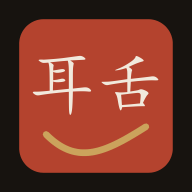
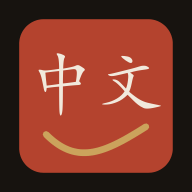
HSK6: 82 oraciones de gramatica; titulo sin 耳舌; iconos con 中文

Changed region(s): [[0.1562, 0.25, 0.4688, 0.5938], [0.5312, 0.2812, 0.8438, 0.5938]]

diff --git a/index.html b/index.html
@@ -14,8 +14,8 @@
   <meta name="mobile-web-app-capable" content="yes">
   <meta name="apple-mobile-web-app-capable" content="yes">
   <meta name="apple-mobile-web-app-status-bar-style" content="black-translucent">
-  <meta name="apple-mobile-web-app-title" content="耳舌 Mandarín">
-  <title>耳朵与舌头 · Entrenador de Mandarín</title>
+  <meta name="apple-mobile-web-app-title" content="Entrenador Mandarín">
+  <title>Entrenador de Mandarín</title>
   <link rel="manifest" href="manifest.webmanifest">
   <link rel="icon" type="image/png" sizes="192x192" href="icons/icon-192.png">
   <link rel="apple-touch-icon" href="icons/apple-touch-icon.png">
@@ -35,7 +35,7 @@
   </svg>
   <div class="wrap">
     <p class="eyebrow">shadowing · tonos · confianza</p>
-    <h1>Entrenador <span class="han">耳舌</span> Mandarín</h1>
+    <h1>Entrenador Mandarín</h1>
     <p class="sub">Práctica de pronunciación y escritura de mandarín para hispanohablantes. Funciona offline — tu progreso se guarda solo en este dispositivo.</p>
   </div>
 </header>

diff --git a/css/styles.css b/css/styles.css
@@ -419,6 +419,8 @@ h2 {
 .ob-solution { display: flex; align-items: center; justify-content: center; gap: 12px; flex-wrap: wrap; margin-top: 12px; text-align: left; }
 .ob-solution .han, .dlg-line .han { font-family: 'Noto Serif SC', serif; font-size: 20px; display: block; }
 .ob-solution .pin, .dlg-line .pin { font-family: 'JetBrains Mono', monospace; font-size: 13px; color: var(--gold); display: block; }
+.ob-gram { text-align: center; font-size: 13px; color: var(--text-dim); margin-top: 8px; }
+.ob-gram b { font-family: 'Noto Serif SC', serif; color: var(--gold); font-weight: 500; }
 .dlg-line { display: flex; align-items: center; gap: 10px; margin-bottom: 12px; }
 .dlg-line.b { flex-direction: row-reverse; }
 .dlg-line .who { flex: none; font-family: 'JetBrains Mono', monospace; font-size: 11px; color: var(--text-dim); min-width: 18px; text-align: center; }

diff --git a/js/oraciones.js b/js/oraciones.js
@@ -169,7 +169,10 @@ function initOraciones(data) {
         el('oracScore').textContent = score;
         el('oracTotal').textContent = total;
         el('oracStreak').textContent = streak;
-        el('oracSolution').innerHTML = `<div class="ob-solution">${solutionHTML(s)}<button class="playbtn" title="Escuchar">&#9654;</button></div>`;
+        el('oracSolution').innerHTML =
+          `<div class="ob-solution">${solutionHTML(s)}<button class="playbtn" title="Escuchar">&#9654;</button></div>` +
+          // punto de gramática del libro que ejercita la oración, si lo tiene
+          (s.gram ? `<div class="ob-gram">Gramática: <b>${s.gram}</b></div>` : '');
         el('oracSolution').querySelector('.playbtn').addEventListener('click', () => speak(s.text, { calm: true }));
         el('oracNext').style.display = '';
       }

diff --git a/Readme.md b/Readme.md
@@ -24,7 +24,7 @@ Funciona en el navegador, sin instalación ni cuenta. El progreso se guarda solo
 
 - **Vocabulario:** 5.712 palabras de HSK 1 a 6, con pinyin y traducción al español.
 - **Caracteres para escritura:** el buscador cubre todos los caracteres que aparecen en ese vocabulario, también los que solo existen dentro de palabras compuestas.
-- **Oraciones y diálogos:** 343 oraciones y 145 diálogos de HSK 1 a 6, todos asociados a una lección.
+- **Oraciones y diálogos:** 425 oraciones y 145 diálogos de HSK 1 a 6, todos asociados a una lección. En HSK 6, 82 oraciones ejercitan los puntos de gramática del libro y lo indican al resolverlas.
 - **Chengyu:** 113 fichas, una por cada expresión de cuatro caracteres del vocabulario de HSK 6.
 - **Orden por lecciones:** el vocabulario y los diálogos siguen el orden de lecciones de los libros *HSK Standard Course* 1 a 6 (los niveles 4, 5 y 6 tienen tomos A y B). Los libros no forman parte de este repositorio; las oraciones y diálogos son texto propio escrito con el vocabulario y la gramática de cada lección.
 
